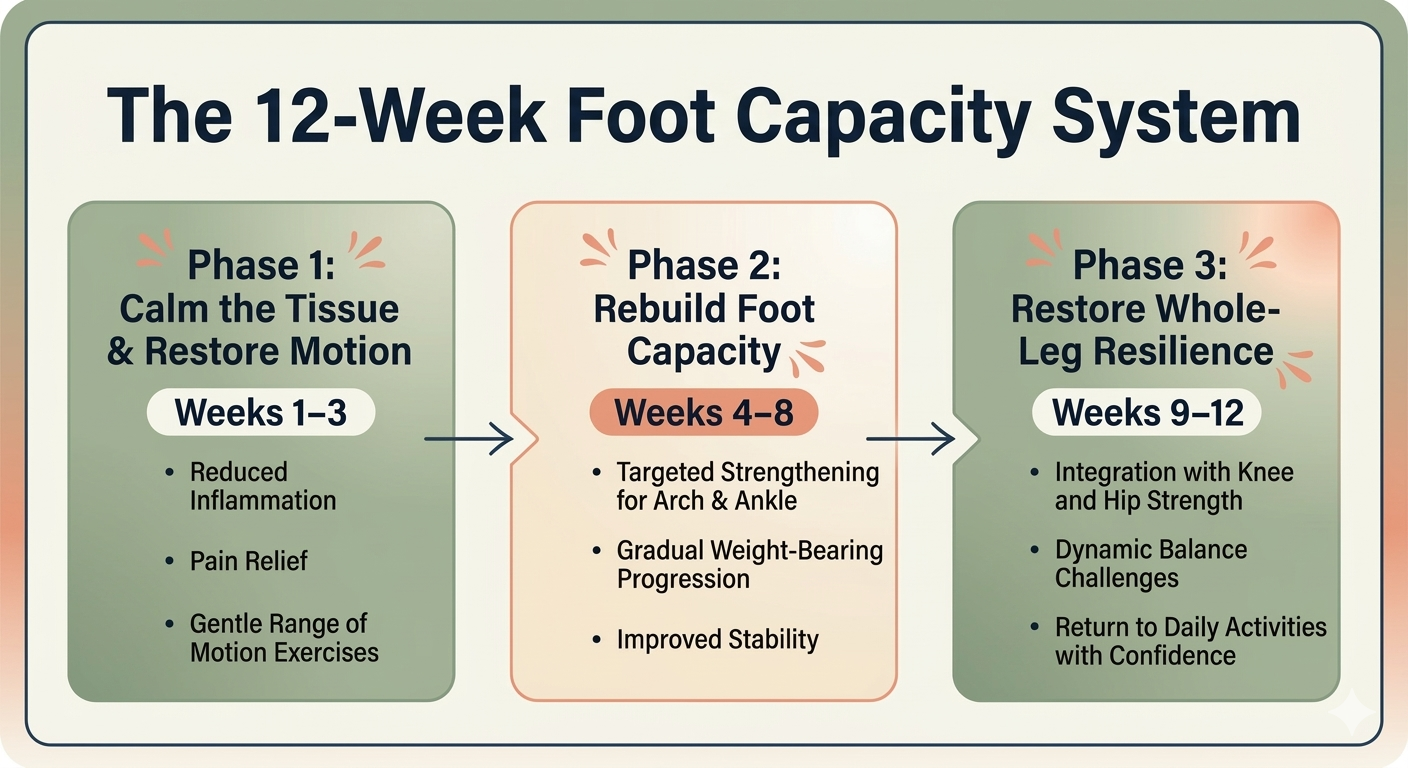
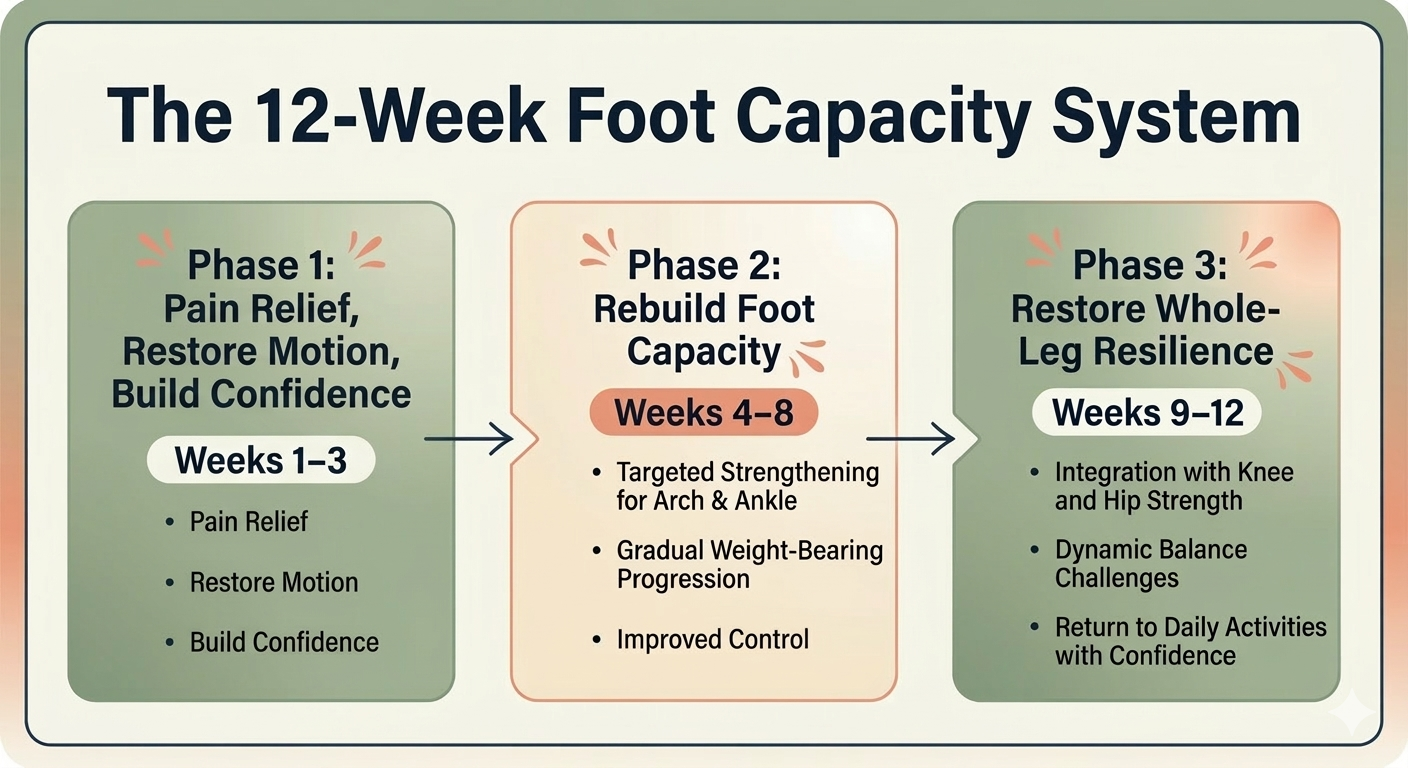
Update header, add checkout buttons, fix scroll-to-top, update Dr. Jonathan section

Changed region(s): [[0.0625, 0.375, 0.3125, 0.875], [0.5, 0.8125, 0.5938, 0.8438]]

diff --git a/src/components/DrJonathanSection.tsx b/src/components/DrJonathanSection.tsx
@@ -34,22 +34,19 @@ const DrJonathanSection = () => {
 
           <div className="section-card p-8 md:p-10 text-center border-l-4 border-coral mt-6 mb-6">
             <p className="text-xl md:text-2xl font-display text-primary italic leading-relaxed">
-              If the treatment was working, why did the pain keep returning?
+              Why were so many people going through the same cycle of temporary relief without actually rebuilding their foot's capacity?
             </p>
           </div>
 
-          <p>The answer became clear.</p>
           <p>
-            Most approaches were managing symptoms instead of rebuilding the tissue's ability to tolerate load.
+            Over time, Dr. Jonathan began refining a different approach focused on restoring strength and tissue capacity. Patients who had tried everything elsewhere often came to him after unsuccessful treatment and began seeing lasting improvement.
           </p>
-          <p>Pain was being turned down, but the underlying capacity problem was still there.</p>
-          <p>So Dr. Jonathan shifted his focus.</p>
           <p>
-            Instead of teaching people to avoid load, he began helping them rebuild the kind of foot that could tolerate life again.
+            When he started sharing this perspective publicly, the response was immediate. Many people said they had never heard their condition explained this way before.
           </p>
-          <p className="text-foreground font-medium">That shift changed everything.</p>
-          <p>Not overnight. Not magically. But for real.</p>
-          <p className="text-foreground font-medium">That philosophy became the foundation of The Foot Capacity System.</p>
+          <p className="text-foreground font-medium">
+            Fix Your Movement was built to bring this systems based, capacity building approach to people who do not have access to that level of care in their local area.
+          </p>
         </motion.div>
 
 

diff --git a/src/components/Header.tsx b/src/components/Header.tsx
@@ -1,18 +1,21 @@
+import { Link } from "react-router-dom";
 import logo from "@/assets/logo.png";
 
 const Header = () => {
   return (
     <header className="fixed top-0 left-0 right-0 z-50 bg-background/90 backdrop-blur-md border-b border-border">
       <div className="container mx-auto px-6 py-4 flex items-center justify-between max-w-6xl">
-        <div className="flex items-center gap-3">
-          <img src={logo} alt="The Foot Capacity System" className="h-10 w-10" />
-          <span className="font-display font-semibold text-lg text-primary">
+        <Link to="/" className="flex items-center gap-3">
+          <img src={logo} alt="The Foot Capacity System" className="h-6 w-6 md:h-10 md:w-10" />
+          <span className="font-display font-semibold text-base md:text-lg text-primary">
             The Foot Capacity System
           </span>
-        </div>
+        </Link>
         <a
-          href="#"
-          className="text-muted-foreground hover:text-primary transition-colors font-body text-base"
+          href="https://whop.com/login/"
+          target="_blank"
+          rel="noopener noreferrer"
+          className="text-muted-foreground hover:text-primary transition-colors font-body text-sm md:text-base"
         >
           Patient Portal
         </a>

diff --git a/src/App.tsx b/src/App.tsx
@@ -1,5 +1,6 @@
 import { QueryClient, QueryClientProvider } from "@tanstack/react-query";
-import { BrowserRouter, Route, Routes } from "react-router-dom";
+import { BrowserRouter, Route, Routes, useLocation } from "react-router-dom";
+import { useEffect } from "react";
 import { Toaster as Sonner } from "@/components/ui/sonner";
 import { Toaster } from "@/components/ui/toaster";
 import { TooltipProvider } from "@/components/ui/tooltip";
@@ -11,12 +12,24 @@ import NotFound from "./pages/NotFound.tsx";
 
 const queryClient = new QueryClient();
 
+// Component to scroll to top on route change
+function ScrollToTop() {
+  const { pathname } = useLocation();
+
+  useEffect(() => {
+    window.scrollTo(0, 0);
+  }, [pathname]);
+
+  return null;
+}
+
 const App = () => (
   <QueryClientProvider client={queryClient}>
     <TooltipProvider>
       <Toaster />
       <Sonner />
       <BrowserRouter>
+        <ScrollToTop />
         <Routes>
           <Route path="/" element={<Index />} />
           <Route path="/privacy-policy" element={<PrivacyPolicy />} />

diff --git a/src/components/HeroSection.tsx b/src/components/HeroSection.tsx
@@ -61,6 +61,26 @@ const HeroSection = () => {
               </div>
             </div>
           </motion.div>
+
+          {/* Checkout Button Below Video */}
+          <motion.div
+            initial={{ opacity: 0, y: 20 }}
+            animate={{ opacity: 1, y: 0 }}
+            transition={{ duration: 0.7, delay: 0.5 }}
+            className="mt-8"
+          >
+            <a
+              href="https://whop.com/checkout/plan_Kb2UZ3Iqj7Vn9"
+              target="_blank"
+              rel="noopener noreferrer"
+              className="cta-button animate-pulse-glow text-xl"
+            >
+              Get Instant Access to The Foot Capacity System Today
+            </a>
+            <p className="mt-4 text-muted-foreground text-base">
+              Secure checkout · Instant access · No subscription
+            </p>
+          </motion.div>
         </motion.div>
       </div>
     </section>

diff --git a/src/components/PricingSection.tsx b/src/components/PricingSection.tsx
@@ -77,7 +77,12 @@ const PricingSection = () => {
             <p className="text-foreground font-medium text-lg mb-6 max-w-lg mx-auto">
               Plantar fasciitis develops when the load on your foot exceeds the tissue's capacity.
             </p>
-            <a href="#" className="cta-button animate-pulse-glow text-xl">
+            <a
+              href="https://whop.com/checkout/plan_Kb2UZ3Iqj7Vn9"
+              target="_blank"
+              rel="noopener noreferrer"
+              className="cta-button animate-pulse-glow text-xl"
+            >
               Get Instant Access to The Foot Capacity System Today
             </a>
             <p className="mt-4 text-muted-foreground text-base">
